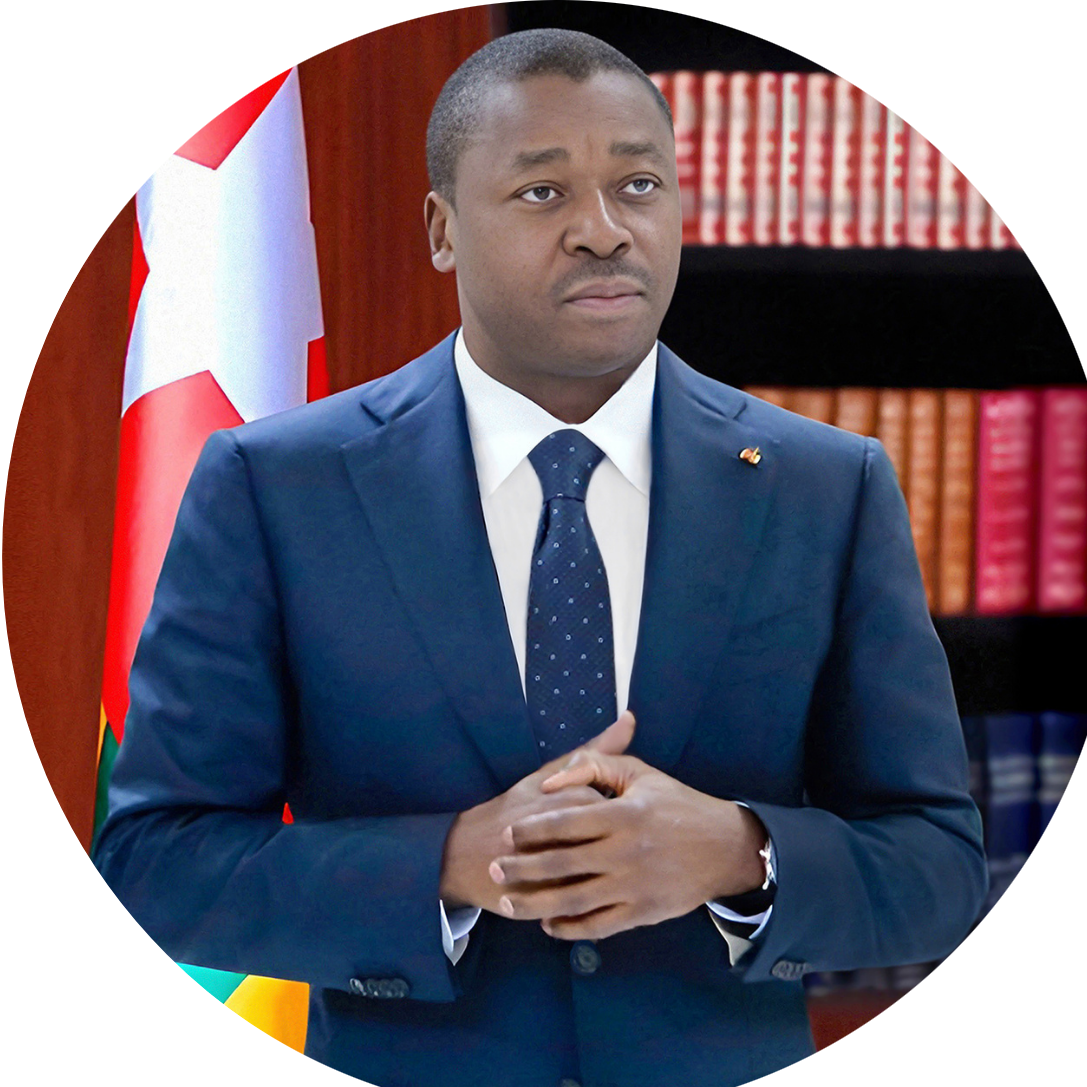
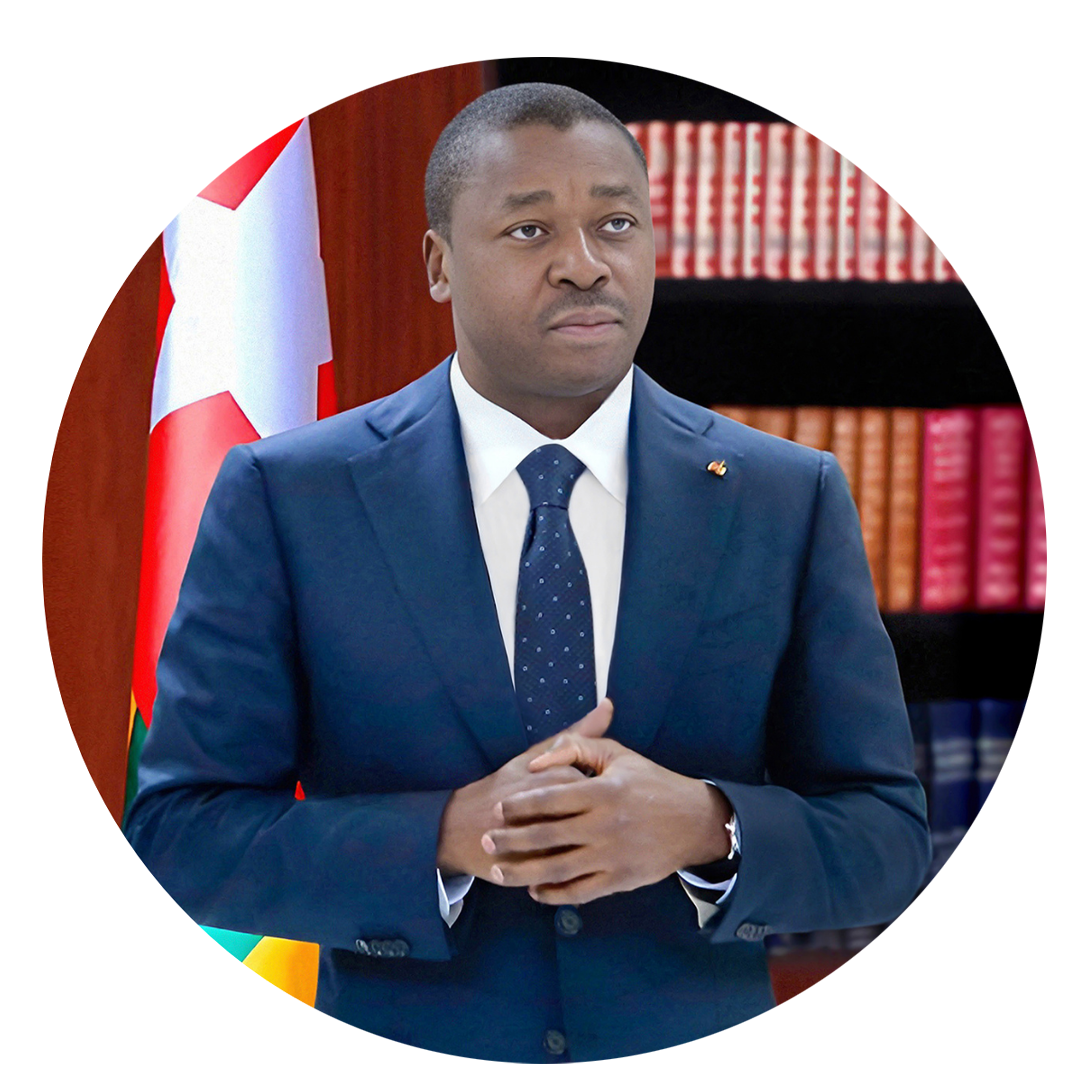
feat: add YouTube videos, update speakers and countdown
- Embed YouTube video for SG and AFCAC President in Welcome Remarks
- Update speaker2 name to 'AFCAC President and Bureau Member' across EN/FR/PT
- Remove leading zeros from hero countdown days
- Translate hero title to FR and PT
- Add SEMPRT photo above speakers grid with title
- Make bulletin buttons non-clickable in Travel and Accommodation
- Fix ASAs outcome description

diff --git a/lib/i18n.ts b/lib/i18n.ts
@@ -74,7 +74,7 @@ export const translations = {
         { letter: 'E', color: 'gold', title: 'Bankable Infrastructure Project Pipeline', desc: 'A pipeline of investment-ready airport and ANSP modernisation projects presented to international financiers.' },
         { letter: 'F', color: 'green', title: 'Innovation, Technology & Human Capital', desc: 'Shared continental understanding of priority technology, skills, and innovation investment areas for African aviation.' },
         { letter: 'G', color: 'gold', title: 'Aviation Financing & Infrastructure Direction', desc: 'Strategic guidance on financing priorities, infrastructure projects, financial commitments, and MoUs signed at the event.' },
-        { letter: 'H', color: 'green', title: 'ASAs Aligned with Yamoussoukro Decision', desc: 'Bilateral Air Service Agreements negotiated and aligned with YD liberalisation provisions.' },
+        { letter: 'H', color: 'green', title: 'ASAs Aligned with Yamoussoukro Decision', desc: 'Air Service Agreements negotiated and aligned with YD liberalisation provisions.' },
         { letter: 'I', color: 'gold', title: 'SAF / LCAF Framework Actions', desc: 'Agreed framework and action priorities for SAF and LCAF adoption across the African continent.' },
       ],
     },
@@ -86,7 +86,7 @@ export const translations = {
       speaker1Org: 'African Civil Aviation Commission',
       speaker1Quote:
         'The African Air Transport Convention & Expo 2026 is the premier continental platform to accelerate SAATM implementation and build a more connected, competitive and sustainable African aviation sector.',
-      speaker2Name: 'Minister of Transport, Togo',
+      speaker2Name: 'AFCAC President and Bureau Member',
       speaker2Org: 'Host State — Republic of Togo',
       speaker2Quote:
         'Togo is proud to host this major event in Lomé. Our international airport and hotel infrastructure are ready to welcome Africa\'s aviation leaders under the best conditions.',
@@ -332,7 +332,7 @@ export const translations = {
     },
     hero: {
       badge: 'AFCAC EXPO 2026 — LOMÉ, TOGO',
-      title1: 'African Air Transport',
+      title1: 'Transport Aérien Africain',
       title2: 'Convention & Expo 2026',
       subtitle:
         'Ancré dans les principes du SAATM et de l\'Agenda 2063 de l\'Union africaine, l\'Expo favorisera le dialogue stratégique, mettra en valeur l\'innovation et catalysera les investissements visant à combler les déficits d\'infrastructure et à bâtir un écosystème de l\'aviation africaine résilient, durable et compétitif.',
@@ -396,7 +396,7 @@ export const translations = {
       speaker1Org: 'Commission africaine de l\'aviation civile',
       speaker1Quote:
         'L\'African Air Transport Convention & Expo 2026 est la plateforme continentale de référence pour accélérer la mise en œuvre du SAATM et bâtir un secteur aérien africain plus connecté, plus compétitif et plus durable.',
-      speaker2Name: 'Ministre des Transports, Togo',
+      speaker2Name: 'Président de l\'AFCAC et Membre du Bureau',
       speaker2Org: 'État hôte — République togolaise',
       speaker2Quote:
         'Le Togo est fier d\'accueillir cet événement majeur à Lomé. Notre aéroport international et nos infrastructures hôtelières sont prêts à recevoir les leaders de l\'aviation africaine dans les meilleures conditions.',
@@ -642,8 +642,8 @@ export const translations = {
     },
     hero: {
       badge: 'AFCAC EXPO 2026 — LOMÉ, TOGO',
-      title1: 'African Air Transport',
-      title2: 'Convention & Expo 2026',
+      title1: 'Transporte Aéreo Africano',
+      title2: 'Convenção & Expo 2026',
       subtitle:
         'Ancorada nos princípios do SAATM e da Agenda 2063 da União Africana, a Expo promoverá o diálogo estratégico, apresentará inovações e catalisará investimentos destinados a colmatar as lacunas de infraestrutura e a construir um ecossistema de aviação africana resiliente, sustentável e competitivo.',
       location: 'Lomé, TOGO : 15 –19 de junho de 2026',
@@ -706,7 +706,7 @@ export const translations = {
       speaker1Org: 'Comissão Africana de Aviação Civil',
       speaker1Quote:
         'A African Air Transport Convention & Expo 2026 é a plataforma continental de referência para acelerar a implementação do SAATM e construir um setor de aviação africano mais conectado, mais competitivo e mais sustentável.',
-      speaker2Name: 'Ministro dos Transportes, Togo',
+      speaker2Name: 'Presidente da AFCAC e Membro do Bureau',
       speaker2Org: 'País Anfitrião — República do Togo',
       speaker2Quote:
         'O Togo tem orgulho em acolher este grande evento em Lomé. O nosso aeroporto internacional e as nossas infraestruturas hoteleiras estão prontos para receber os líderes da aviação africana nas melhores condições.',

diff --git a/components/Remarks.tsx b/components/Remarks.tsx
@@ -18,15 +18,27 @@ export default function Remarks() {
 
         <div className="remarks-grid">
           {[
-            { name: r.speaker1Name, org: r.speaker1Org, quote: r.speaker1Quote },
-            { name: r.speaker2Name, org: r.speaker2Org, quote: r.speaker2Quote },
+            { name: r.speaker1Name, org: r.speaker1Org, quote: r.speaker1Quote, videoId: 'DaTS_W3QaRc' },
+            { name: r.speaker2Name, org: r.speaker2Org, quote: r.speaker2Quote, videoId: 'nhJpoh_zD_A' },
           ].map((sp) => (
             <div key={sp.name} className="remark-card">
               <div className="remark-video">
-                <div className="video-placeholder">
-                  <div className="play-btn"><i className="fas fa-play" /></div>
-                  <div className="video-overlay-text"><span>{r.watchMessage}</span></div>
-                </div>
+                {sp.videoId ? (
+                  <iframe
+                    width="100%"
+                    height="100%"
+                    src={`https://www.youtube.com/embed/${sp.videoId}`}
+                    title={sp.name}
+                    allow="accelerometer; autoplay; clipboard-write; encrypted-media; gyroscope; picture-in-picture"
+                    allowFullScreen
+                    style={{ display: 'block', borderRadius: 'var(--radius)', border: 'none' }}
+                  />
+                ) : (
+                  <div className="video-placeholder">
+                    <div className="play-btn"><i className="fas fa-play" /></div>
+                    <div className="video-overlay-text"><span>{r.watchMessage}</span></div>
+                  </div>
+                )}
               </div>
               <div className="remark-info">
                 <div className="remark-avatar"><i className="fas fa-user-tie" /></div>

diff --git a/components/Accommodation.tsx b/components/Accommodation.tsx
@@ -15,9 +15,9 @@ export default function Accommodation() {
           <div className="section-divider" />
           <p className="section-desc">{ac.sectionDesc}</p>
           <div className="prog-bulletin-bar" style={{ justifyContent: 'center', flexDirection: 'column', alignItems: 'center' }}>
-            <a href="#" className="btn btn-primary prog-bulletin-btn">
+            <span className="btn btn-primary prog-bulletin-btn" style={{ cursor: 'default', pointerEvents: 'none' }}>
               <i className="fas fa-file-alt" /> Download list of hotels
-            </a>
+            </span>
             <div className="prog-bulletin-langs">
               <a href="https://www.afcac.org/wp-content/uploads/2026/05/Hotels-Information.pdf" target="_blank" rel="noopener noreferrer" className="prog-lang-btn">EN</a>
               <a href="https://www.afcac.org/wp-content/uploads/2026/05/Hotels-Information-FR.pdf" target="_blank" rel="noopener noreferrer" className="prog-lang-btn">FR</a>

diff --git a/components/Speakers.tsx b/components/Speakers.tsx
@@ -15,6 +15,16 @@ export default function Speakers() {
           <p className="section-desc">{s.sectionDesc}</p>
         </div>
 
+        <div style={{ display: 'flex', justifyContent: 'center', marginBottom: '40px' }}>
+          <div className="speaker-card" style={{ maxWidth: '220px' }}>
+            <div style={{ width: '180px', height: '180px', borderRadius: '50%', overflow: 'hidden', margin: '0 auto 16px', flexShrink: 0 }}>
+              {/* eslint-disable-next-line @next/next/no-img-element */}
+              <img src="/SEMPRT.png" alt="Président du Conseil de la République Togolaise" style={{ width: '100%', height: '100%', objectFit: 'cover', objectPosition: 'center 15%', display: 'block' }} />
+            </div>
+            <h4>Président du Conseil de la République Togolaise</h4>
+          </div>
+        </div>
+
         <div className="speakers-grid">
           {s.list.map((sp) => (
             <div key={sp.name} className="speaker-card">

diff --git a/components/Travel.tsx b/components/Travel.tsx
@@ -16,9 +16,9 @@ export default function Travel() {
         </div>
 
         <div className="prog-bulletin-bar" style={{ justifyContent: 'center', flexDirection: 'column', alignItems: 'center' }}>
-          <a href="#" className="btn btn-primary prog-bulletin-btn">
+          <span className="btn btn-primary prog-bulletin-btn" style={{ cursor: 'default', pointerEvents: 'none' }}>
             <i className="fas fa-file-alt" /> Download the Information Bulletin
-          </a>
+          </span>
           <div className="prog-bulletin-langs">
             <a href="https://www.afcac.org/wp-content/uploads/2026/04/EN_up-APRIL-29-ENG-EXPO-Information-Bulletin-Lome-TOGO-28_04_2026-003.pdf" target="_blank" rel="noopener noreferrer" className="prog-lang-btn">EN</a>
             <a href="https://www.afcac.org/wp-content/uploads/2026/05/FREXPO-Information-Bulletin-Lome-TOGO-28_04_20-FINAL.pdf" target="_blank" rel="noopener noreferrer" className="prog-lang-btn">FR</a>

diff --git a/components/Hero.tsx b/components/Hero.tsx
@@ -9,7 +9,7 @@ interface Particle {
 
 export default function Hero() {
   const { t } = useLanguage()
-  const [cd, setCd] = useState({ days: '000', hours: '00', minutes: '00', seconds: '00' })
+  const [cd, setCd] = useState({ days: '0', hours: '00', minutes: '00', seconds: '00' })
   const [particles, setParticles] = useState<Particle[]>([])
 
   useEffect(() => {
@@ -32,7 +32,7 @@ export default function Hero() {
       const m = Math.floor((diff % 3600000) / 60000)
       const s = Math.floor((diff % 60000) / 1000)
       setCd({
-        days: String(d).padStart(3, '0'),
+        days: String(d),
         hours: String(h).padStart(2, '0'),
         minutes: String(m).padStart(2, '0'),
         seconds: String(s).padStart(2, '0'),
